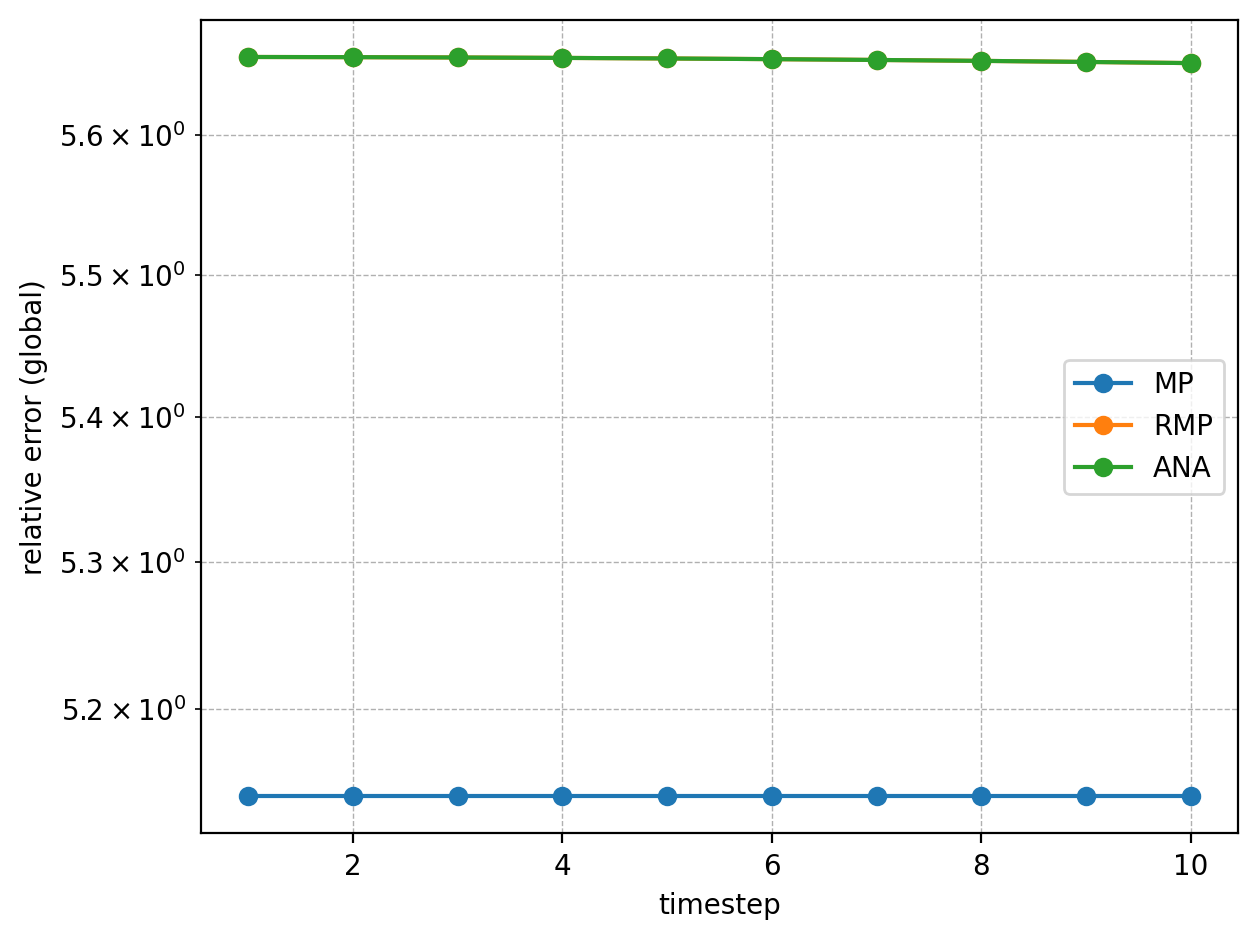
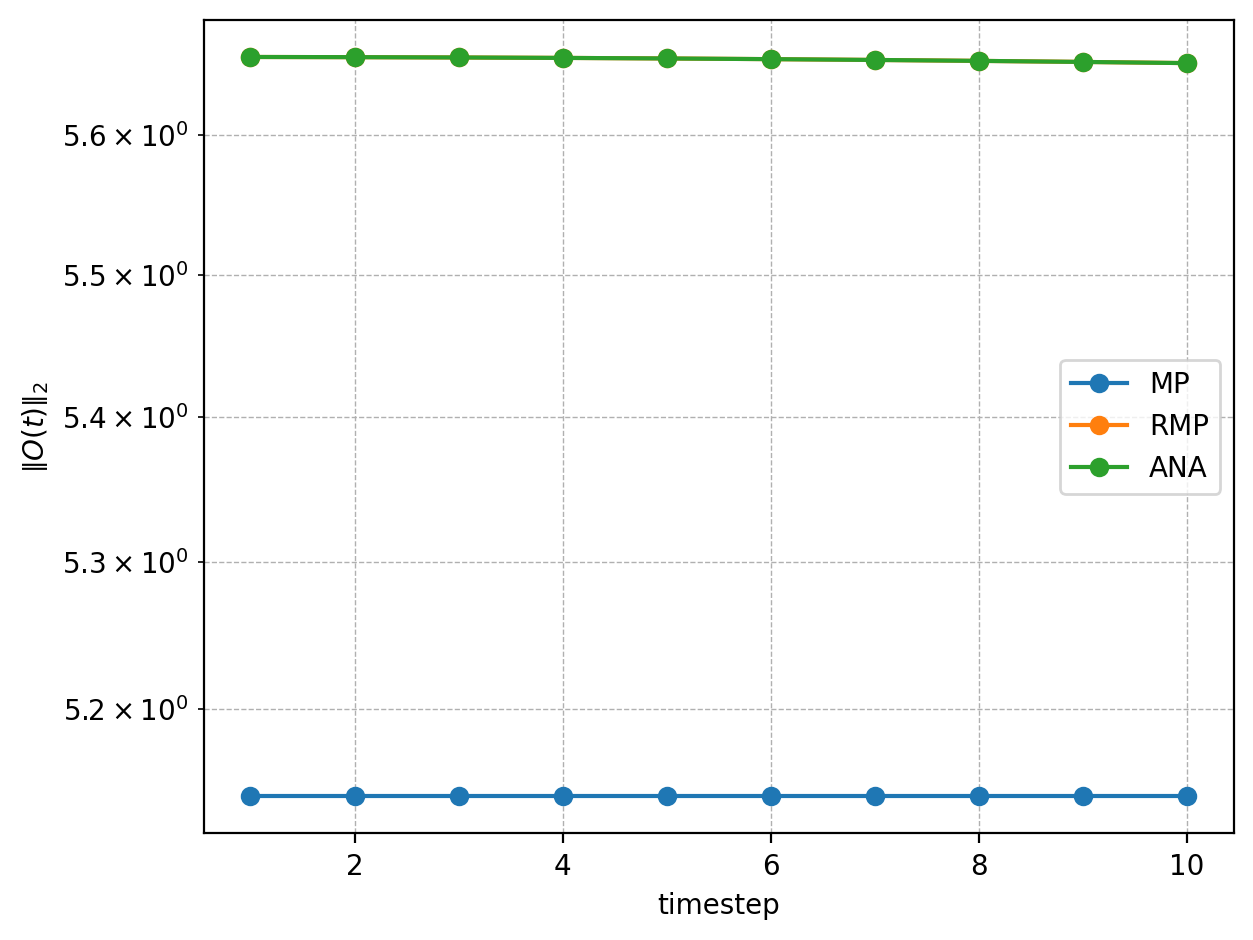
Maj gates corrected

diff --git a/sim/main.py b/sim/main.py
@@ -6,7 +6,7 @@ import time
 
 
 dt = 0.01
-n = 2 #num of timestep
+n = 11 #num of timestep
 
 #number of fermionic mode 
 nf = 4
@@ -15,8 +15,8 @@ nf2 = 2 * nf
 
 h = np.zeros((nf2, nf2))
 
-h[2][0] = -0.1 
-h[4][0] = -0.1
+h[2][0] = -1 
+h[4][0] = -1
 #h[5][1] = -0.2
 #h[3][2] = -0.2
 #h[5][1]= -0.1
@@ -36,8 +36,8 @@ V = np.zeros((nf2, nf2, nf2, nf2))
 #V[2][3][4][5] = 0.5
 #V[1][3][4][5] = 0.1
 #V[0][1][3][4] = -0.3
-#V[0][1][4][6] = 0.1
-#V[0][1][6][7] = 0.5
+V[0][1][4][6] = 1
+#V[0][1][6][7] = 4
 
 init_bin = np.array([1, 1, 0, 0, 0, 0, 1, 1])
 #init_bin = np.array([1, 1, 0, 0, 1, 1])
@@ -66,23 +66,8 @@ h_ind = np.nonzero(h)
 v_ind = np.nonzero(V)
 
 
-U = []
 
-sps = sparsity(h_ind, v_ind, nf2)
-print("Delta = ", sps)
-
-AppendH(U, h_ind, dt, 2, nf2)
-
-AppendV(U, v_ind, dt, 2, nf2)
- 
-for i in range(n-1):
-    AppendH(U, h_ind, 2 * dt, 2, nf2)
-    AppendV(U, v_ind, dt, 2, nf2)
-
-AppendH(U, h_ind, dt, 2, nf2)
-    
-print("gate count", len(U))
-print(np.allclose(len(U), (n+1) * np.count_nonzero(h) + 2 * n * np.count_nonzero(V)))
+#print(np.allclose(len(U), (n+1) * np.count_nonzero(h) + 2 * n * np.count_nonzero(V)))
 
 #tc_st = 2
 #tc_end = 9
@@ -106,6 +91,23 @@ for ts in range(1, n):
 #for tc_len in range(tc_st, tc_end):
 #for coef_tr in range(coef_st, coef_end, -1):
     #trunc_param = np.array([tc_len, 1e-6])
+    U = []
+
+    #sps = sparsity(h_ind, v_ind, nf2)
+    #print("Delta = ", sps)
+
+    AppendH(U, h_ind, dt, 2, nf2)
+
+    AppendV(U, v_ind, dt, 2, nf2)
+    
+    for i in range(ts-1):
+        AppendH(U, h_ind, 2 * dt, 2, nf2)
+        AppendV(U, v_ind, dt, 2, nf2)
+
+    AppendH(U, h_ind, dt, 2, nf2)
+        
+    print("gate count", len(U))
+
     trunc_param = np.array([4, 1e-6])
     #trunc_param = np.array([tc_len, 10**(coef_tr)])
 
@@ -178,8 +180,8 @@ for ts in range(1, n):
 
 # truncation method + dt + n + init_maj_len + nonzero_term_h + nonzero+term_v + note(option) 
 trunc_met = "lt"
-dir = "plot0211/"
-note = "_td"
+dir = "plot0212/"
+note = "_err"
 filename =  dir + trunc_met + "_" + str(nf) + "_" + str(dt) + "_" + str(n) + "_" + str(init_len)+ "_" + str(np.count_nonzero(h)) + "_" + str(np.count_nonzero(V)) + note  + ".png"
 
 #filename = "N=6test.png"
@@ -187,13 +189,35 @@ filename =  dir + trunc_met + "_" + str(nf) + "_" + str(dt) + "_" + str(n) + "_"
 
 ts_len = np.arange(ts_st, n)  
 plt.figure()
-#plt.plot(ts_len, rel_mp , marker='o', linestyle='-', label='MP')
-#plt.plot(ts_len, rel_rmp , marker='o', linestyle='-', label='RMP')
+plt.plot(ts_len, rel_mp , marker='o', linestyle='-', label='MP')
+plt.plot(ts_len, rel_rmp , marker='o', linestyle='-', label='RMP')
+
+
+
+#plt.xlabel('truncation length')
+plt.xlabel('timestep')
+plt.ylabel('relative error (global)')
+#plt.ylabel(r'$\left\|O(t)\right\|_{2}$')
+plt.yscale('log')  
+plt.grid(True, which='both', linestyle='--', linewidth=0.5)
+plt.legend()
+plt.tight_layout()
+
+
+os.makedirs(os.path.dirname(filename), exist_ok=True)
+plt.savefig(filename, dpi=200, bbox_inches="tight")
+plt.show()
+
+
+trunc_met = "lt"
+dir = "plot0212/"
+note = "_td"
+filename =  dir + trunc_met + "_" + str(nf) + "_" + str(dt) + "_" + str(n) + "_" + str(init_len)+ "_" + str(np.count_nonzero(h)) + "_" + str(np.count_nonzero(V)) + note  + ".png"
+
+plt.figure()
 plt.plot(ts_len, mp , marker='o', linestyle='-', label='MP')
 plt.plot(ts_len, rmp , marker='o', linestyle='-', label='RMP')
 plt.plot(ts_len, ana , marker='o', linestyle='-', label='ANA')
-
-
 #plt.xlabel('truncation length')
 plt.xlabel('timestep')
 #plt.ylabel('relative error (global)')

diff --git a/sim/maj_test.py b/sim/maj_test.py
@@ -9,7 +9,7 @@ dt = 0.01
 n = 2 #num of timestep
 
 #number of fermionic mode 
-nf = 4
+nf = 3
 nf2 = 2 * nf
 
 
@@ -39,28 +39,20 @@ V = np.zeros((nf2, nf2, nf2, nf2))
 #V[0][1][4][6] = 0.1
 #V[0][1][6][7] = 0.5
 
-init_bin = np.array([1, 1, 0, 0, 0, 0, 1, 1])
-#init_bin = np.array([1, 1, 0, 0, 1, 1])
+#init_bin = np.array([1, 1, 0, 0, 0, 0, 1, 1])
+init_bin = np.array([1, 1, 0, 0, 1, 1])
 M1= MajoranaOp(nf2, init_bin)
 N1 = Node(init_bin, 1j**M1.rb())
 
-bin2 = np.array([1, 1, 1, 1, 1, 1, 1, 1])
-#bin2 = np.array([0, 0, 1, 1, 0, 0])
-M2= MajoranaOp(nf2, bin2)
-N2 = Node(bin2, 1j**M2.rb())
 
-bin3 = np.array([1, 0, 1, 0, 1, 0, 1, 0])
-#bin3 = np.array([0, 0, 1, 1, 1, 1])
-M3= MajoranaOp(nf2, bin3)
-N3 = Node(bin3, 1j**M3.rb())
 
 #bin4 = np.array([0, 0, 0, 0, 1, 1, 1, 1])
 #M4= MajoranaOp(nf2, bin4)
 #N4 = Node(bin4, 1j**M4.rb())
 
-Init_Node = [N1, N2, N3]
+Init_Node = [N1]
 init_len = len(Init_Node)
-init_maj = [M1, M2, M3]
+init_maj = [M1]
 
 h_ind = np.nonzero(h)
 v_ind = np.nonzero(V)
@@ -146,10 +138,9 @@ for ts in range(1, n):
         for j in range(nf):
             rho_st[j] = c[j]
         #print("input Fock state = ", rho_st)
-        pt = False
-        if(i==0):
-            pt = True
-        obexp[i] = ExpectVal(Output_Node, len(Output_Node) , rho_st, pt)
+        
+        
+        obexp[i] = ExpectVal(Output_Node, len(Output_Node) , rho_st)
         #print("Expectation value by Majorana Propagation = ", obexp[i])
 
         rexp[i] = Rotated_ExpectVal(Node_out , h, dt, ts, rho_st, nf)

diff --git a/sim/MajProp.py b/sim/MajProp.py
@@ -186,7 +186,7 @@ def ExpectVal(Input_Node, lenN, rho):
             while(len(Pair) < len(rho)):
                 Pair = np.append(Pair, 0)
             #print("Pairs = ", Pair)
-            PairedOne = np.inner(Pair, rho)           # { # i | |n_i> = 1 and (b_{2i}, b_{2i+1}) is paired }
+            PairedOne = np.inner(Pair, rho)           # { i | |n_i> = 1 and (b_{2i}, b_{2i+1}) is paired }
             Expect += ((-1)**PairedOne) * (1j**sum(Pair))* Input_Node[i].c  
             
     i
